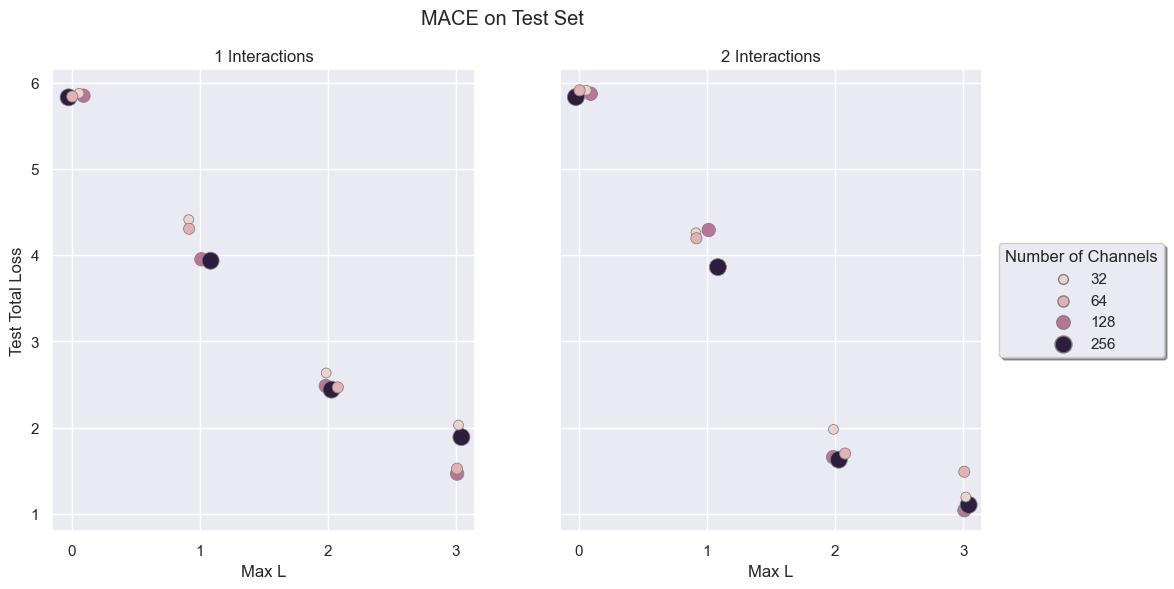
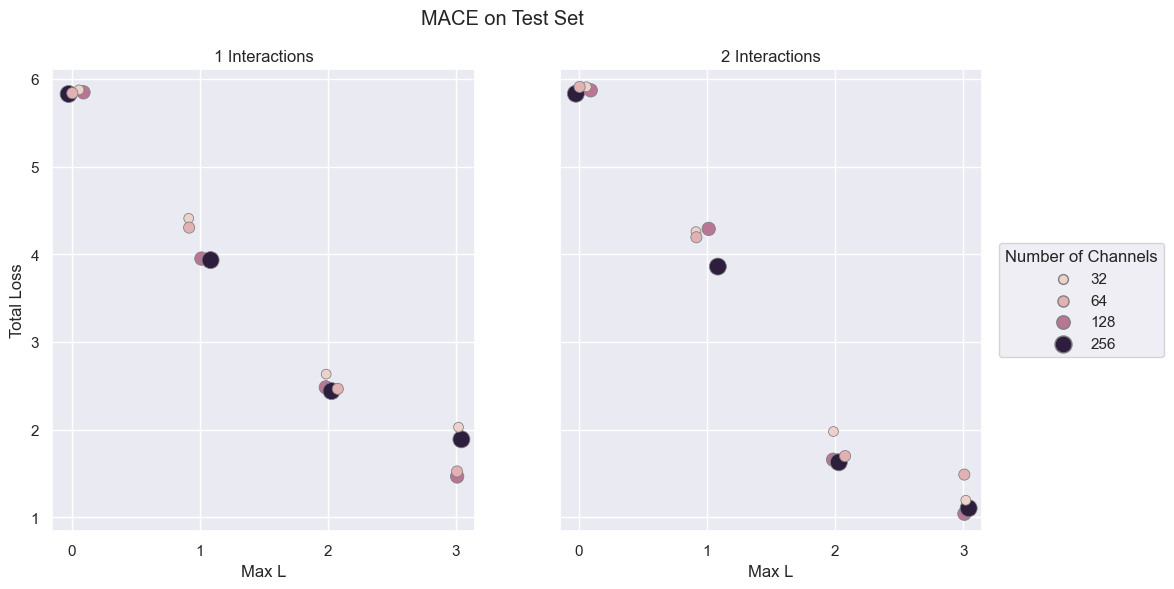
Add analyses outputs.

diff --git a/analyses/generate_plots.py b/analyses/generate_plots.py
@@ -1,5 +1,8 @@
 """Creates plots to analyze trained models."""
 
+from typing import Sequence, Dict
+
+import ml_collections
 from absl import app
 from absl import flags
 from absl import logging
@@ -23,25 +26,7 @@ FLAGS = flags.FLAGS
 flags.DEFINE_string("basedir", None, "Directory where all workdirs are stored.")
 flags.DEFINE_string("outputdir", os.path.join(os.getcwd(), "analyses", "outputs"), "Directory where plots should be saved.")
 flags.DEFINE_string("model", None, "Model to analyze.")
-flags.DEFINE_string("metric", "total_loss", "Metric to plot.")
 
-
-def get_hyperparameters(config):
-    """Returns the hyperparameters extracted from the config."""
-    if "num_interactions" in config:
-        num_interactions = config.num_interactions
-    else:
-        num_interactions = config.n_interactions
-
-    max_l = config.max_ell
-
-    if "num_channels" in config:
-        num_channels = config.num_channels
-    else:
-        num_channels = config.n_atom_basis
-        assert num_channels == config.n_filters
-    
-    return num_interactions, max_l, num_channels
 
 
 def get_title_for_model(model: str) -> str:
@@ -53,51 +38,63 @@ def get_title_for_model(model: str) -> str:
     return model.title()
 
 
-def create_plot(df: pd.DataFrame, metric: str, title: str, filename: str):
+def create_plots(model: str, metrics: Sequence[str], results: Dict[str, pd.DataFrame], outputdir: str) -> None:
     """Creates a boxplot for the given metric."""
-    # Set style.
-    sns.set_theme(style="darkgrid")
-
-    # Scatterplot.
-    fig, axs = plt.subplots(ncols=2, figsize=(12, 6), sharey=True)
-    fig.suptitle(title)
-
-    for ax, num_interactions in zip(axs, [1, 2]):
-        # Choose the subset of data based on the number of interactions.
-        df_subset = df[df["num_interactions"] == num_interactions]
+    def plot_metric(metric: str, split: str):
+        # Set style.
+        sns.set_theme(style="darkgrid")
 
         # Scatterplot.
-        ax = sns.scatterplot(data=df_subset, x="max_l", y=metric, edgecolor="gray", ax=ax,
-                             hue="num_channels", size="num_channels", sizes=(50, 150))
-        
-        # Customizing different axes.
-        if num_interactions == 1:
-            ax.legend().remove()
-            ax.set_ylabel(" ".join(ax.get_ylabel().split("_")).title())
+        fig, axs = plt.subplots(ncols=2, figsize=(12, 6), sharey=True)
+        fig.suptitle(get_title_for_model(model) + f" on {split.capitalize()} Set")
 
-        if num_interactions == 2:
-            ax.legend(title="Number of Channels", loc="center left",
-                      bbox_to_anchor=(1.04, 0.5), borderaxespad=0, fancybox=True, shadow=True)
-            for ha in ax.legend_.legendHandles:
-                ha.set_edgecolor("gray")
+        for ax, num_interactions in zip(axs, [1, 2]):
+            # Choose the subset of data based on the number of interactions.
+            df = results[split]
+            df_subset = df[df["num_interactions"] == num_interactions]
 
-            ax.set_ylabel("")
+            # Scatterplot.
+            ax = sns.scatterplot(data=df_subset, x="max_l", y=metric, edgecolor="gray", ax=ax,
+                                 hue="num_channels", size="num_channels", sizes=(50, 150))
+            
+            # Customizing different axes.
+            if num_interactions == 1:
+                ax.legend().remove()
+                ax.set_ylabel(" ".join(ax.get_ylabel().split("_")).title())
 
-        # Labels and titles.
-        ax.set_title(f"{num_interactions} Interactions")
-        ax.set_xlabel(" ".join(ax.get_xlabel().split("_")).title())
-        ax.set_xticks(np.arange(df["max_l"].min(), df["max_l"].max() + 1))
+            if num_interactions == 2:
+                ax.legend(title="Number of Channels", loc="center left",
+                        bbox_to_anchor=(1.04, 0.5), borderaxespad=0, fancybox=True, shadow=False)
+                for ha in ax.legend_.legendHandles:
+                    ha.set_edgecolor("gray")
 
-        # Add jitter to the points.
-        np.random.seed(0)
-        dots = ax.collections[0]
-        offsets = dots.get_offsets()
-        jittered_offsets = np.stack([offsets[:, 0] + np.random.uniform(-0.1, 0.1, size=offsets[:, 0].shape), offsets[:, 1]], axis=1)
-        dots.set_offsets(jittered_offsets)
+                ax.set_ylabel("")
 
-    # Save plot.
-    plt.savefig(filename, bbox_inches='tight')
-    plt.close()
+            # Axes limits.
+            min_y = min(results[split][metric].min() for split in results)
+            max_y = max(results[split][metric].max() for split in results)
+            ax.set_ylim(min_y - 0.2, max_y + 0.2)
+
+            # Labels and titles.
+            ax.set_title(f"{num_interactions} Interactions")
+            ax.set_xlabel(" ".join(ax.get_xlabel().split("_")).title())
+            ax.set_xticks(np.arange(df["max_l"].min(), df["max_l"].max() + 1))
+
+            # Add jitter to the points.
+            np.random.seed(0)
+            dots = ax.collections[0]
+            offsets = dots.get_offsets()
+            jittered_offsets = np.stack([offsets[:, 0] + np.random.uniform(-0.1, 0.1, size=offsets[:, 0].shape), offsets[:, 1]], axis=1)
+            dots.set_offsets(jittered_offsets)
+
+        # Save plot.
+        outputfile = os.path.join(outputdir, f"{model}_{split}_{metric}.png")
+        plt.savefig(outputfile, bbox_inches='tight')
+        plt.close()
+
+    for split in results:
+        for metric in metrics:
+            plot_metric(metric, split)
 
 
 def main(argv):
@@ -105,34 +102,12 @@ def main(argv):
         raise app.UsageError("Too many command-line arguments.")
 
     basedir = os.path.abspath(FLAGS.basedir)
-    metric = FLAGS.metric
     model = FLAGS.model
     outputdir = os.path.abspath(FLAGS.outputdir)
+    metrics = ["total_loss", "position_loss", "focus_loss", "atom_type_loss"]
 
-    validation_data = []
-    test_data = []
-
-    for config_file_path in glob.glob(os.path.join(basedir, "**", model, "**", "*.yml"), recursive=True):
-        workdir = os.path.dirname(config_file_path)
-
-        config, metrics_for_best_state = analysis.load_metrics_from_workdir(workdir)
-        num_interactions, max_l, num_channels = get_hyperparameters(config)
-
-        validation_metric = metrics_for_best_state["val"][metric]
-        validation_data.append([num_interactions, max_l, num_channels, validation_metric])
-
-        test_metric = metrics_for_best_state["test"][metric]
-        test_data.append([num_interactions, max_l, num_channels, test_metric])
-
-    validation_data = np.array(validation_data)
-    validation_df = pd.DataFrame(validation_data, columns=["num_interactions", "max_l", "num_channels", f"validation_{metric}"])
-    validation_df = validation_df.astype({"num_interactions": int, "max_l": int, "num_channels": int, f"validation_{metric}": float})
-    create_plot(validation_df, f"validation_{metric}", get_title_for_model(model) + " on Validation Set", os.path.join(outputdir, f"{model}_validation_{metric}.png"))
-    print(validation_df)
-    test_data = np.array(test_data)
-    test_df = pd.DataFrame(test_data, columns=["num_interactions", "max_l", "num_channels", f"test_{metric}"])
-    test_df = test_df.astype({"num_interactions": int, "max_l": int, "num_channels": int, f"test_{metric}": float})
-    create_plot(test_df, f"test_{metric}", get_title_for_model(model) + " on Test Set", os.path.join(outputdir, f"{model}_test_{metric}.png"))
+    results = analysis.get_results_as_dataframe(model, metrics, basedir)
+    create_plots(model, metrics, results, outputdir)
 
 
 if __name__ == "__main__":

diff --git a/analyses/analysis.py b/analyses/analysis.py
@@ -2,7 +2,7 @@
 
 import os
 
-from typing import Any, Dict, Optional, Tuple
+from typing import Any, Dict, Optional, Tuple, Sequence
 
 import pickle
 import jraph
@@ -11,6 +11,8 @@ import jax.numpy as jnp
 import ml_collections
 import numpy as np
 import yaml
+import pandas as pd
+import glob
 
 from absl import logging
 from clu import checkpoint
@@ -42,6 +44,46 @@ def cast_keys_as_int(dictionary: Dict[Any, Any]) -> Dict[Any, Any]:
         finally:
             casted_dictionary[key] = val
     return casted_dictionary
+
+
+def get_results_as_dataframe(model: str, metrics: Sequence[str], basedir: str) -> Dict[str, pd.DataFrame]:
+    """Returns the results for the given model as a pandas dataframe for each split."""
+
+    def extract_hyperparameters(config: ml_collections.ConfigDict) -> Tuple[int, int, int]:
+        """Returns the hyperparameters extracted from the config."""
+
+        if "num_interactions" in config:
+            num_interactions = config.num_interactions
+        else:
+            num_interactions = config.n_interactions
+
+        max_l = config.max_ell
+
+        if "num_channels" in config:
+            num_channels = config.num_channels
+        else:
+            num_channels = config.n_atom_basis
+            assert num_channels == config.n_filters
+        
+        return num_interactions, max_l, num_channels
+
+    results = {"val": [], "test": []}
+    for config_file_path in glob.glob(os.path.join(basedir, "**", model, "**", "*.yml"), recursive=True):
+        workdir = os.path.dirname(config_file_path)
+
+        config, metrics_for_best_state = load_metrics_from_workdir(workdir)
+        num_interactions, max_l, num_channels = extract_hyperparameters(config)
+
+        for split in results:
+            metrics_for_split = [metrics_for_best_state[split][metric] for metric in metrics]
+            results[split].append([num_interactions, max_l, num_channels] + metrics_for_split)
+    
+    for split in results:
+        results[split] = np.array(results[split])
+        results[split] = pd.DataFrame(results[split], columns=["num_interactions", "max_l", "num_channels"] + metrics)
+        results[split] = results[split].astype({"num_interactions": int, "max_l": int, "num_channels": int, **{metric: float for metric in metrics}})
+    
+    return results
 
 
 def load_metrics_from_workdir(
